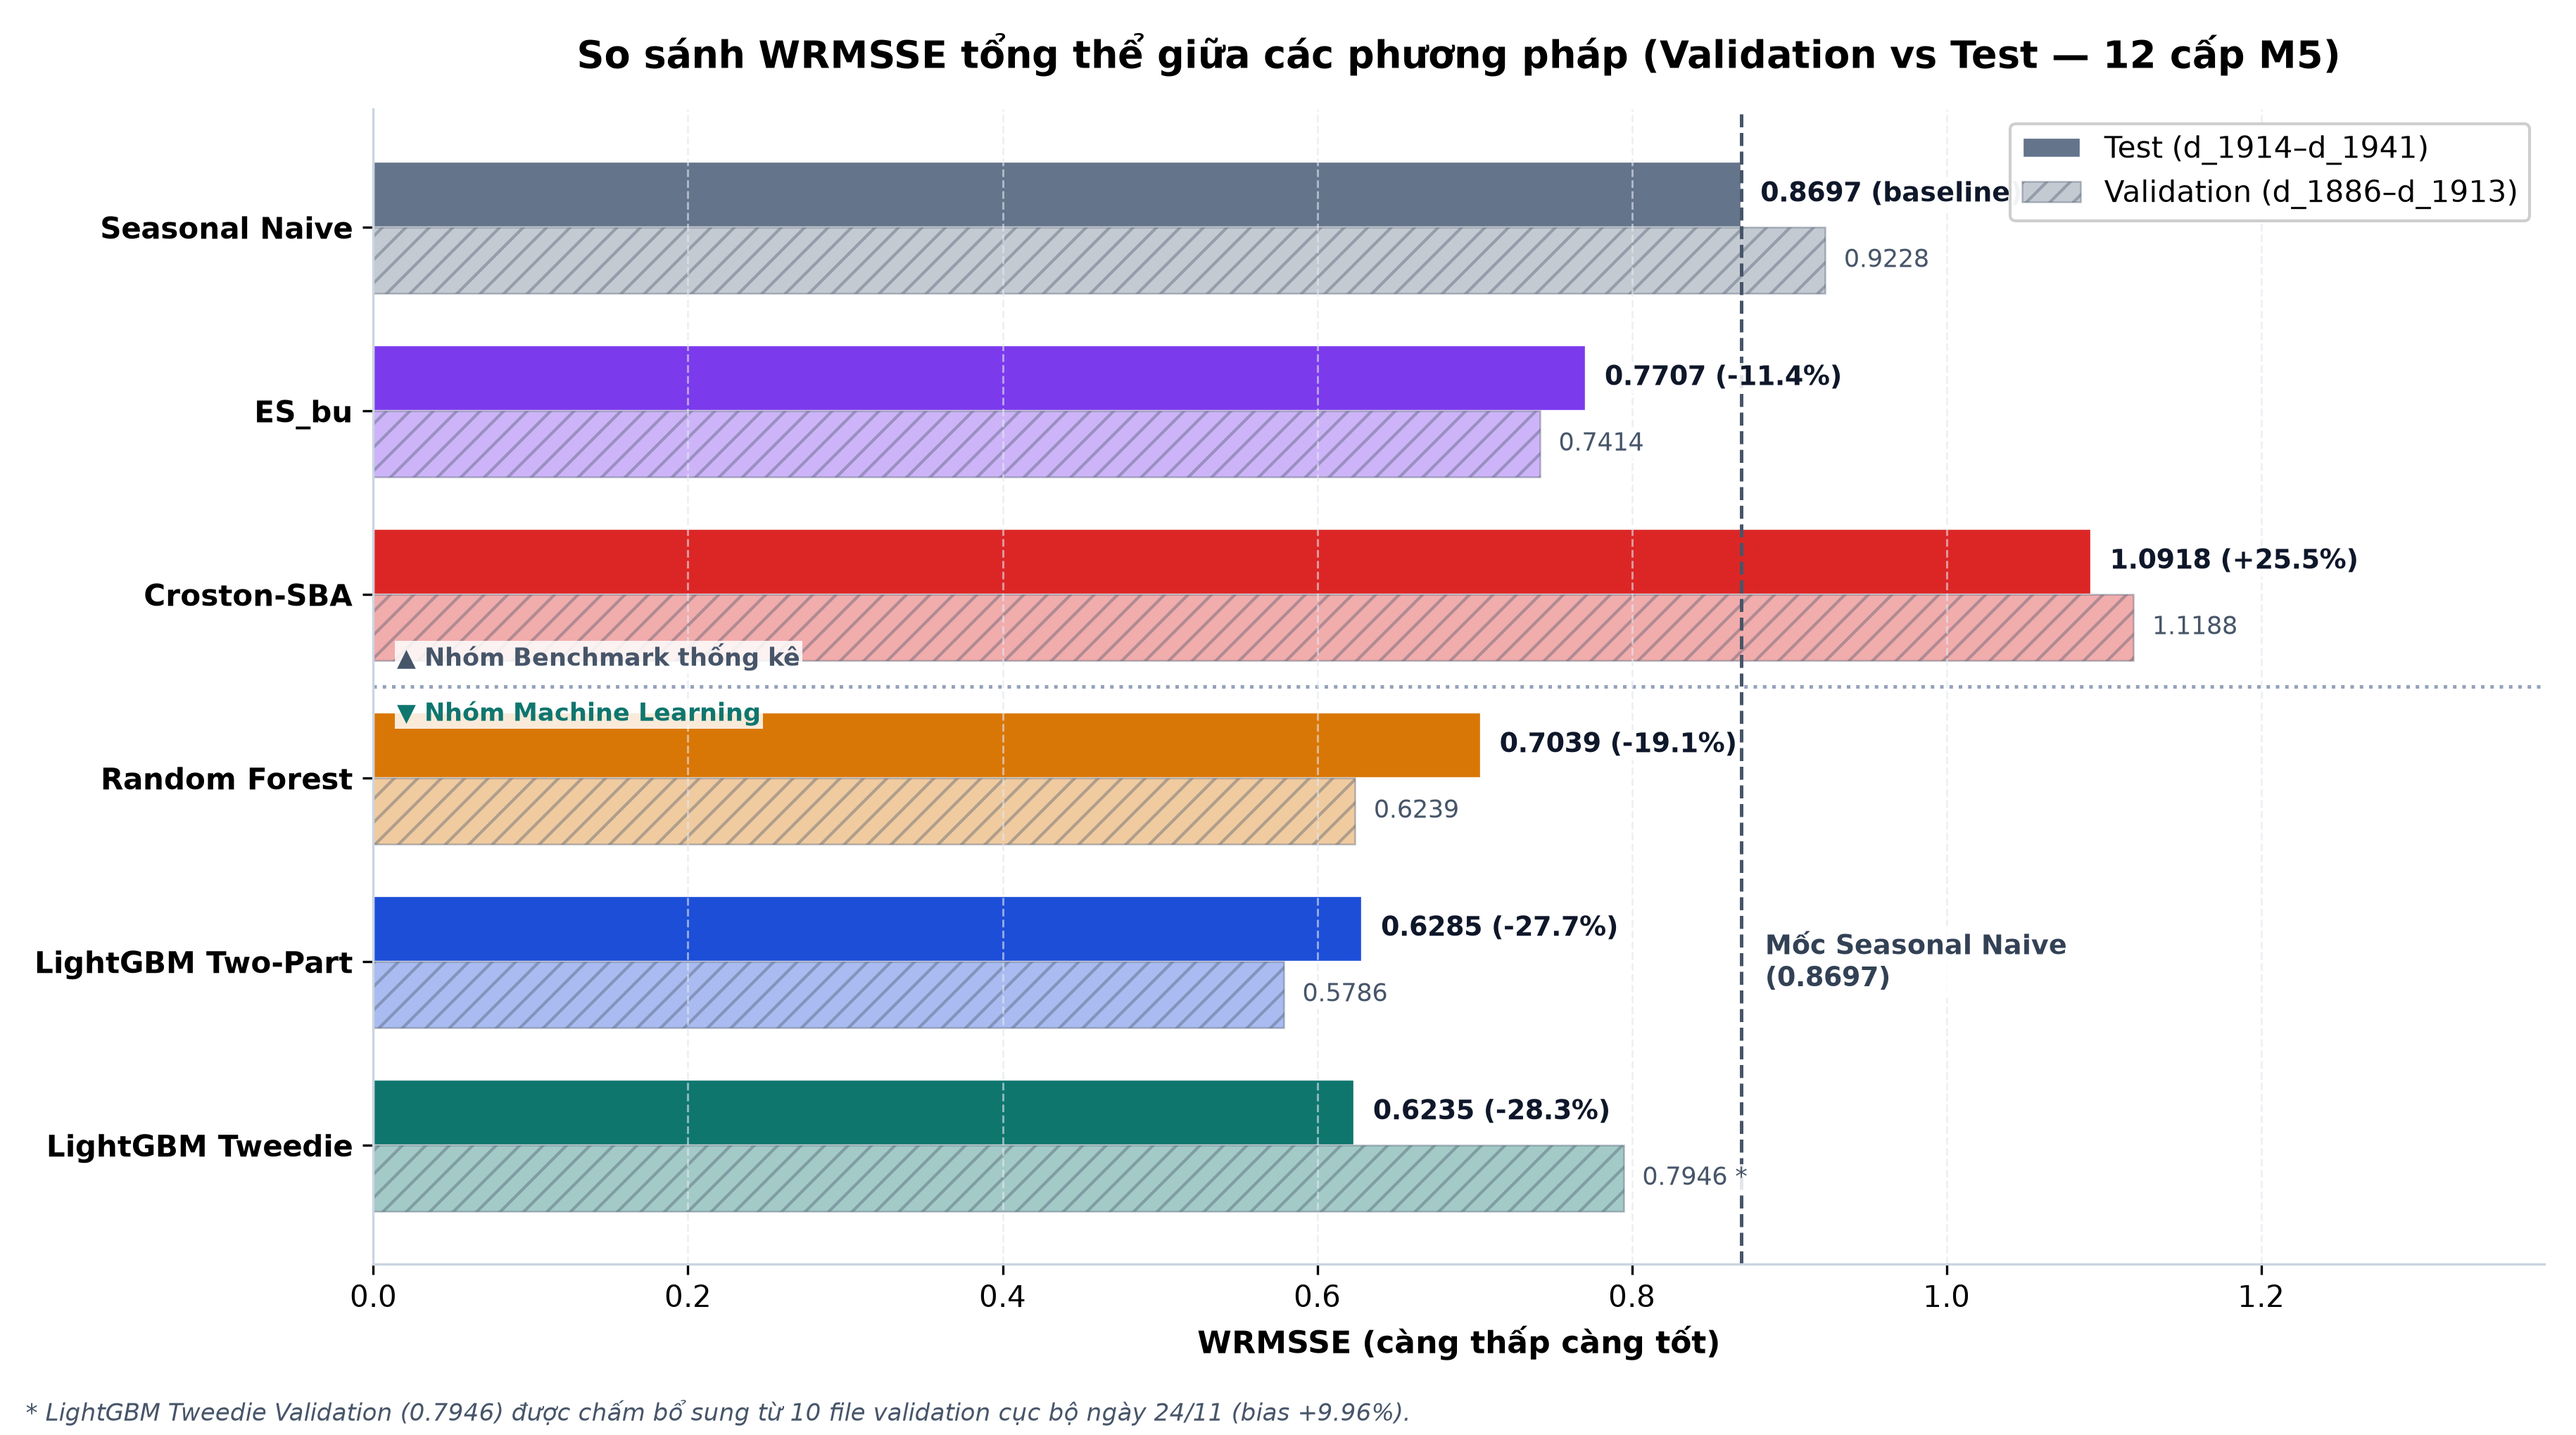
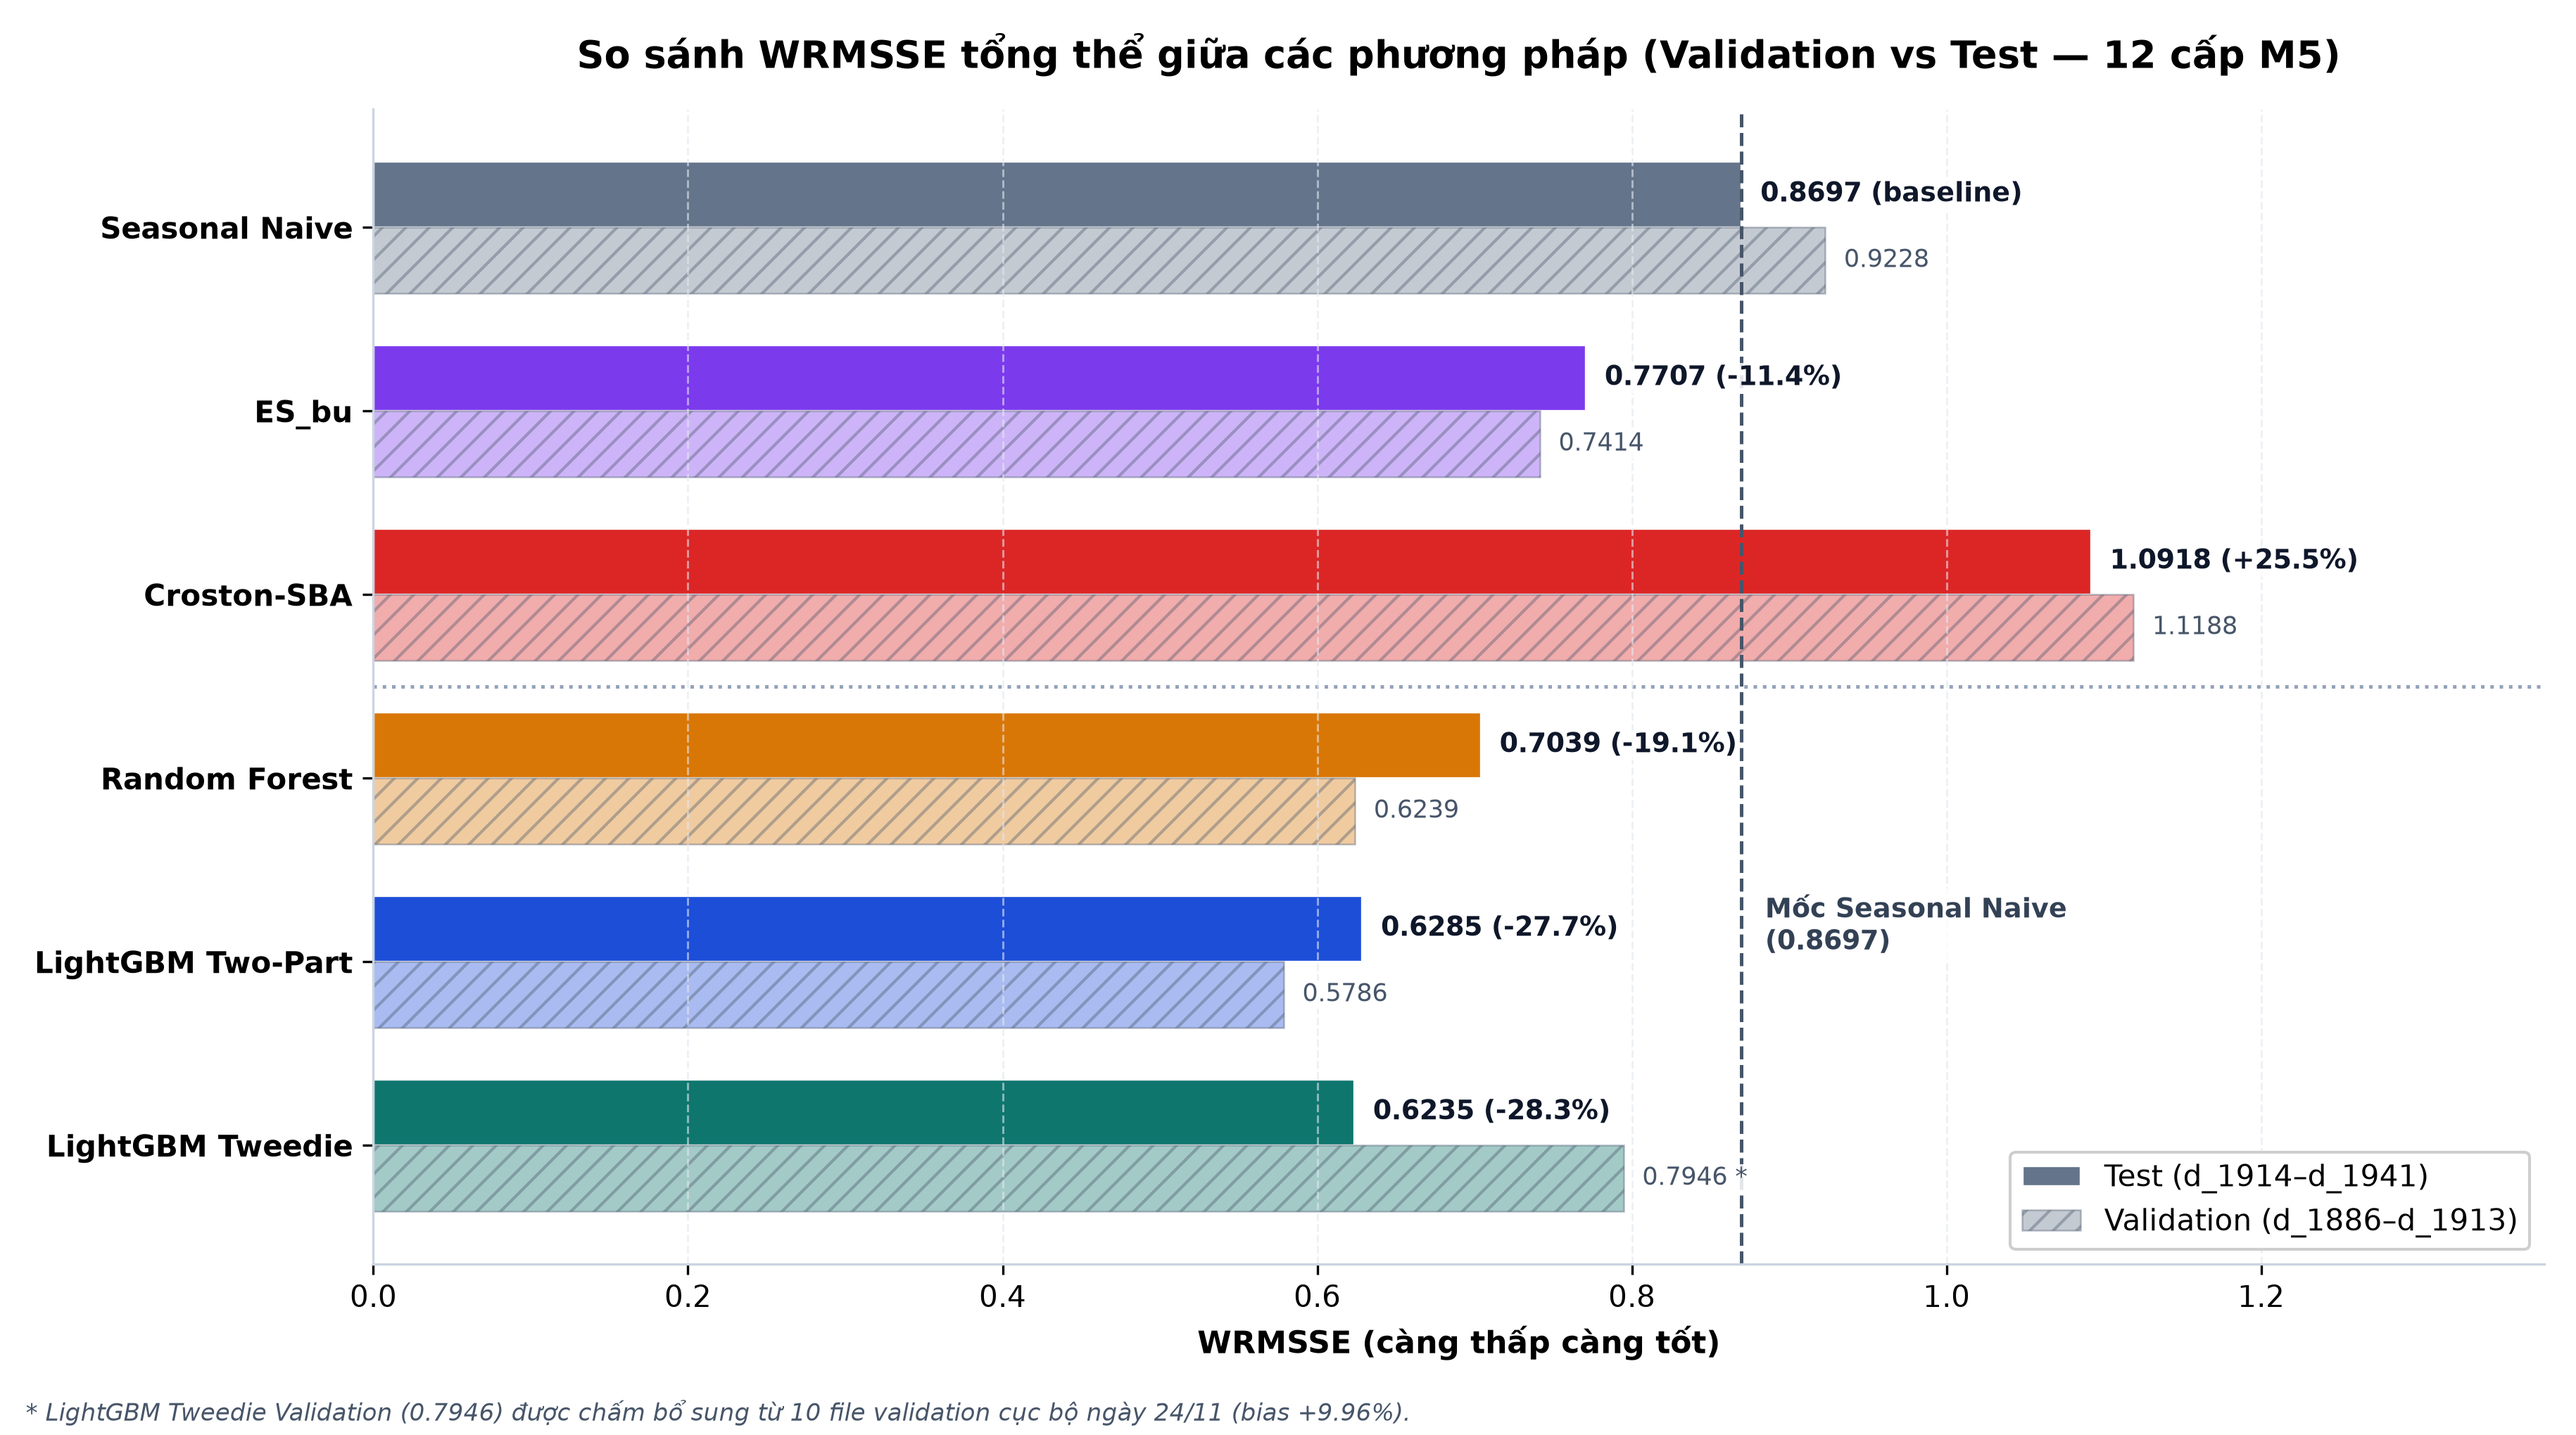
Remove group label text from Chart 1 and move legend to lower right

diff --git a/comparison/generate_comparison_charts.py b/comparison/generate_comparison_charts.py
@@ -355,11 +355,7 @@ def plot_chart_1(summary: pd.DataFrame):
     sn_test = float(df.loc[df.model == "Seasonal Naive", "wrmsse_test"].iloc[0])
     ax.axvline(sn_test, color="#475569", linestyle="--", linewidth=1.2, zorder=1)
     ax.axhline(2.5, color="#94A3B8", linestyle=":", linewidth=1.2, zorder=1)
-    ax.text(0.015, 2.42, "▲ Nhóm Benchmark thống kê", fontsize=8.5, fontweight="bold", color="#475569", va="bottom",
-            bbox=dict(facecolor="white", edgecolor="none", alpha=0.85, pad=0.8))
-    ax.text(0.015, 2.58, "▼ Nhóm Machine Learning", fontsize=8.5, fontweight="bold", color="#0F766E", va="top",
-            bbox=dict(facecolor="white", edgecolor="none", alpha=0.85, pad=0.8))
-    ax.text(sn_test + 0.015, 4.0, f"Mốc Seasonal Naive\n({sn_test:.4f})",
+    ax.text(sn_test + 0.015, 3.8, f"Mốc Seasonal Naive\n({sn_test:.4f})",
             color="#334155", fontsize=9, fontweight="bold", va="center", zorder=4,
             bbox=dict(facecolor="white", edgecolor="none", alpha=0.85, pad=1.0))
 
@@ -386,7 +382,7 @@ def plot_chart_1(summary: pd.DataFrame):
     ax.grid(axis="x", alpha=0.6)
     ax.spines["top"].set_visible(False)
     ax.spines["right"].set_visible(False)
-    ax.legend(loc="upper right", frameon=True, facecolor="white", framealpha=0.95)
+    ax.legend(loc="lower right", frameon=True, facecolor="white", framealpha=0.95)
     fig.text(0.01, 0.01, "* LightGBM Tweedie Validation (0.7946) được chấm bổ sung từ 10 file validation cục bộ ngày 24/11 (bias +9.96%).",
              fontsize=8.2, color="#475569", style="italic")
 
